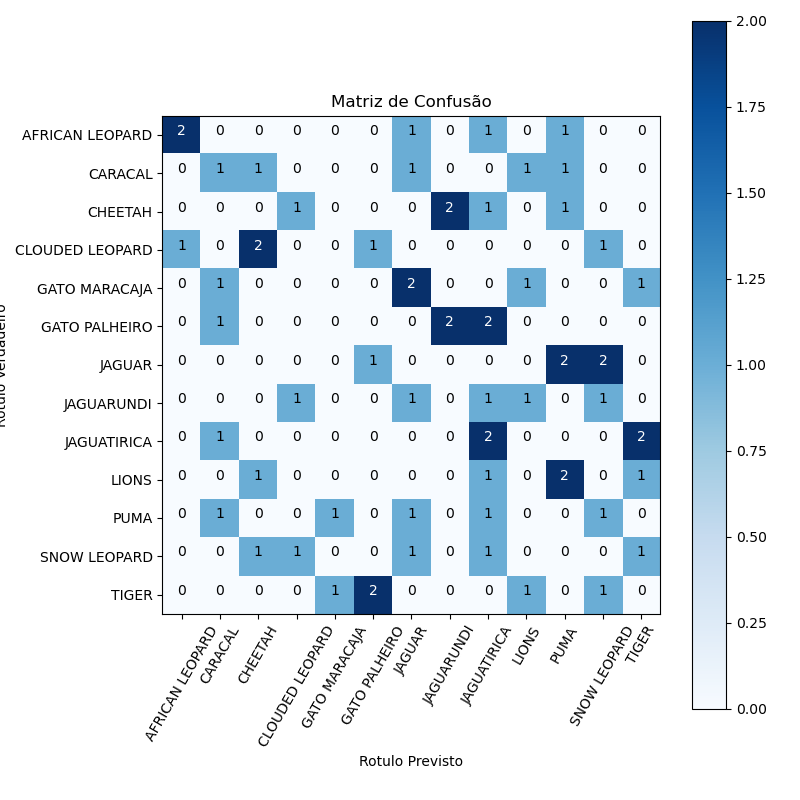
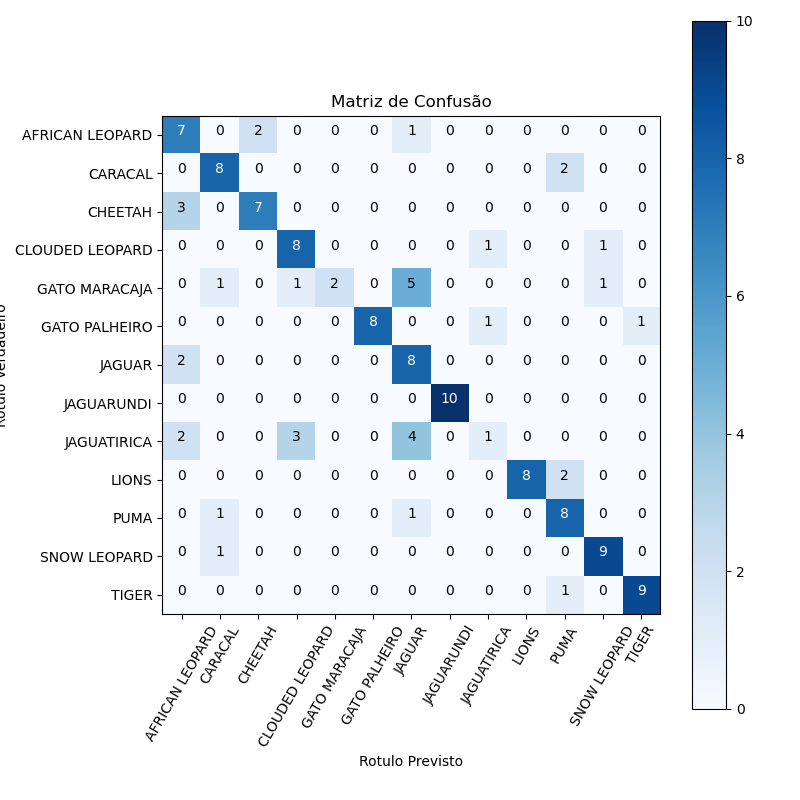
Alteração dos metodo de geração do dataset. Utilização de data augmentation para melhorar o desempenho da matriz de confusão"

diff --git a/main.py b/main.py
@@ -28,24 +28,33 @@ from modelostransferlearning import ModeloTransferLearning
 # Dados globais
 img_size = (224, 224)
 batch_size = 32
-epochs = 1
+epochs = 4
 
 
 # Carregamento das imagens da amostra
 path_treinamento = pathlib.Path(os.path.join("E:/USP_ESALQ", "ProjetoClassificacaoGatos", "Dados", "train"))
-
-path_validacao = pathlib.Path(os.path.join("E:/USP_ESALQ", "ProjetoClassificacaoGatos", "Dados", "valid"))
-
+#path_validacao = pathlib.Path(os.path.join("E:/USP_ESALQ", "ProjetoClassificacaoGatos", "Dados", "valid"))
 path_teste = pathlib.Path(os.path.join("E:/USP_ESALQ", "ProjetoClassificacaoGatos", "Dados", "test"))
-"""
-dados_treinamento = ImageDataGenerator().flow_from_directory(path_treinamento, target_size=img_size)
-dados_teste = ImageDataGenerator().flow_from_directory(path_teste, target_size=img_size)
-dados_validacao = ImageDataGenerator().flow_from_directory(path_validacao, target_size=img_size)
-"""
+
+gerador_aumento_dados = ImageDataGenerator(
+    rotation_range=30,  # rotation
+    width_shift_range=0.2,  # horizontal shift
+    height_shift_range=0.2,  # vertical shift
+    zoom_range=0.2,  # zoom
+    horizontal_flip=True  # horizontal flip
+)
+
+dados_treinamento = gerador_aumento_dados.flow_from_directory(path_treinamento, target_size=img_size, class_mode='categorical',shuffle=True, subset='training',)
+dados_validacao = gerador_aumento_dados.flow_from_directory(path_treinamento, target_size=img_size, class_mode='categorical',shuffle=True, subset='validation',)
+dados_teste = gerador_aumento_dados.flow_from_directory(path_teste, target_size=img_size, class_mode='categorical',shuffle=False)
+
 image_count = len(list(path_treinamento.glob('*/*.jpg')))
 print("total de imagens de treino:", image_count)
+nome_classes = os.listdir(path_treinamento)
 print("classes:", os.listdir(path_treinamento))
 
+
+"""
 train_dataset = tf.keras.utils.image_dataset_from_directory(
     path_treinamento,
     labels="inferred",
@@ -54,7 +63,8 @@ train_dataset = tf.keras.utils.image_dataset_from_directory(
     validation_split=0.2,
     seed=321,
     image_size=(img_size[0], img_size[1]),
-    batch_size=batch_size)
+    batch_size=batch_size,
+    shuffle=True)
 
 test_dataset = tf.keras.utils.image_dataset_from_directory(
         path_teste,
@@ -74,18 +84,13 @@ validation_dataset = tf.keras.utils.image_dataset_from_directory(
     validation_split=0.2,
     seed=321,
     image_size=(img_size[0], img_size[1]),
-    batch_size=batch_size)
-
-numero_classes = len(train_dataset.class_names)
+    batch_size=batch_size,
+    shuffle=True)
+"""
+numero_classes = dados_treinamento.num_classes
 
 # Data Augmentation - ImageDataGenerator
-gerador_aumento_dados = ImageDataGenerator(
-    rotation_range=30,  # rotation
-    width_shift_range=0.2,  # horizontal shift
-    height_shift_range=0.2,  # vertical shift
-    zoom_range=0.2,  # zoom
-    horizontal_flip=True  # horizontal flip
-)
+
 
 
 ############################################# MODELO 0 - VGG16 #############################################
@@ -94,30 +99,32 @@ vgg16Model = ModeloTransferLearning().novaredevgg16(numero_classes)
 #resumo das camadas do modelo
 vgg16Model.summary()
 # Treinando o modelo
-hist_vgg16 = vgg16Model.fit(train_dataset,
-                            steps_per_epoch=image_count // batch_size,
+hist_vgg16 = vgg16Model.fit(dados_treinamento,
                             epochs=epochs,
-                            validation_data=validation_dataset,
-                            validation_steps=65 // batch_size,
+                            validation_data=dados_validacao,
+                            validation_steps= dados_validacao.__len__() // batch_size,
+                            validation_split=0.2
                             )
 
 vgg16Model.save_weights("pesosvgg16.h5")
 
 ##matriz de confusao
-predicao_vgg16 = vgg16Model.predict(test_dataset)
+predicao_vgg16 = vgg16Model.predict(dados_teste)
 
 test_pred = np.argmax(predicao_vgg16, axis=1)
 
-test_labels = np.concatenate([y for x, y in test_dataset], axis=0)
+#test_labels = np.concatenate([y for x, y in dados_teste], axis=0)
 
-test_labels = np.argmax(test_labels.__array__(), axis=1)
+#test_labels = np.argmax(test_labels.__array__(), axis=1)
+
+test_labels = dados_teste.classes
 
 # Relatorio metrico
-print(classification_report(test_labels, test_pred, labels=test_dataset.class_names, zero_division=0))
+print(classification_report(test_labels, test_pred, labels=nome_classes, zero_division=0))
 
 # Calcular the confusion matrix using sklearn.metrics
 cm = sklearn.metrics.confusion_matrix(test_labels, test_pred)
-figure, plt = MatrizConfusao.plot_confusion_matrix(cm, class_names=test_dataset.class_names)
+figure, plt = MatrizConfusao.plot_confusion_matrix(cm, class_names=nome_classes)
 figure.savefig('logs/matrizConfusaoVGG16.png', format='png')
 plt.close(figure)
 
@@ -129,7 +136,7 @@ plt.plot(hist_vgg16.history["val_precision"], label="Dados de Validação")
 plt.legend()
 plt.xlabel('Epoch')
 plt.ylabel('Precisão')
-figure.savefig('logs/precisaoVGG16', format='png')
+figure.savefig('logs/precisaoVGG16.png', format='png')
 plt.close(figure)
 
 # Accuracy and Validation Accuracy
@@ -140,7 +147,7 @@ plt.plot(hist_vgg16.history["val_accuracy"], label="Dados de Validação")
 plt.legend()
 plt.xlabel('Epoch')
 plt.ylabel('Acurácia')
-figure.savefig('logs/acuraciaVGG16', format='png')
+figure.savefig('logs/acuraciaVGG16.png', format='png')
 plt.close(figure)
 plt.show()
 
@@ -152,24 +159,28 @@ vgg19Model = ModeloTransferLearning().novaredevgg19(numero_classes)
 #resumo das camadas do modelo
 vgg19Model.summary()
 # Treinando o modelo
-hist_vgg19 = vgg19Model.fit(train_dataset,
-                            steps_per_epoch=image_count // batch_size,
+hist_vgg19 = vgg19Model.fit(dados_treinamento,
                             epochs=epochs,
-                            validation_data=validation_dataset,
-                            validation_steps=65 // batch_size)
+                            validation_data=dados_validacao,
+                            validation_steps=dados_validacao.__len__() // batch_size,
+                            validation_split=0.2)
 
 vgg19Model.save_weights("pesosvgg19.h5")
 
 ##matriz de confusao
-predicao_vgg19 = vgg19Model.predict(test_dataset, batch_size=batch_size)
+predicao_vgg19 = vgg19Model.predict(dados_teste, batch_size=batch_size)
 test_pred = np.argmax(predicao_vgg19, axis=1)
-test_labels = np.concatenate([y for x, y in test_dataset], axis=0)
-test_labels = np.argmax(test_labels, axis=1)
+
+#test_labels = np.concatenate([y for x, y in dados_teste], axis=0)
+#test_labels = np.argmax(test_labels, axis=1)
+
+test_labels = dados_teste.classes
+
 #Relatorio
-print(classification_report(test_labels, test_pred, labels=test_dataset.class_names, zero_division=0))
+print(classification_report(test_labels, test_pred, labels=nome_classes, zero_division=0))
 # Calcular the confusion matrix using sklearn.metrics
 cm = sklearn.metrics.confusion_matrix(test_labels, test_pred)
-figure, plt = MatrizConfusao.plot_confusion_matrix(cm, class_names=test_dataset.class_names)
+figure, plt = MatrizConfusao.plot_confusion_matrix(cm, class_names=nome_classes)
 figure.savefig('logs/matrizConfusaoVGG19.png', format='png')
 plt.close(figure)
 
@@ -190,7 +201,7 @@ plt.title('Acurácia VGG-16')
 plt.legend()
 plt.xlabel('Epoch')
 plt.ylabel('Acurácia')
-figure.savefig('logs/acuraciaVGG19', format='png')
+figure.savefig('logs/acuraciaVGG19.png', format='png')
 plt.close(figure)
 plt.show()
 ############################################# MODELO 1 - VGG19 #############################################
@@ -235,4 +246,4 @@ modelo2.build(input_shape=(image_count, img_size[0], img_size[1], 3))
 
 modelo2.summary()
 
-history2 = modelo2.fit(train_dataset, validation_data=validation_dataset, epochs=epochs, )
+history2 = modelo2.fit(dados_treinamento, validation_data=dados_validacao, epochs=epochs, )

diff --git a/modelostransferlearning.py b/modelostransferlearning.py
@@ -40,6 +40,7 @@ class ModeloTransferLearning(object):
             layers.trainable = False
 
         # Classes customizadas na ultima camada
+
         vgg19model.add(Dense(numero_classes, activation="softmax", name="predicao_vgg19"))
 
         vgg19model.compile(loss="categorical_crossentropy",
